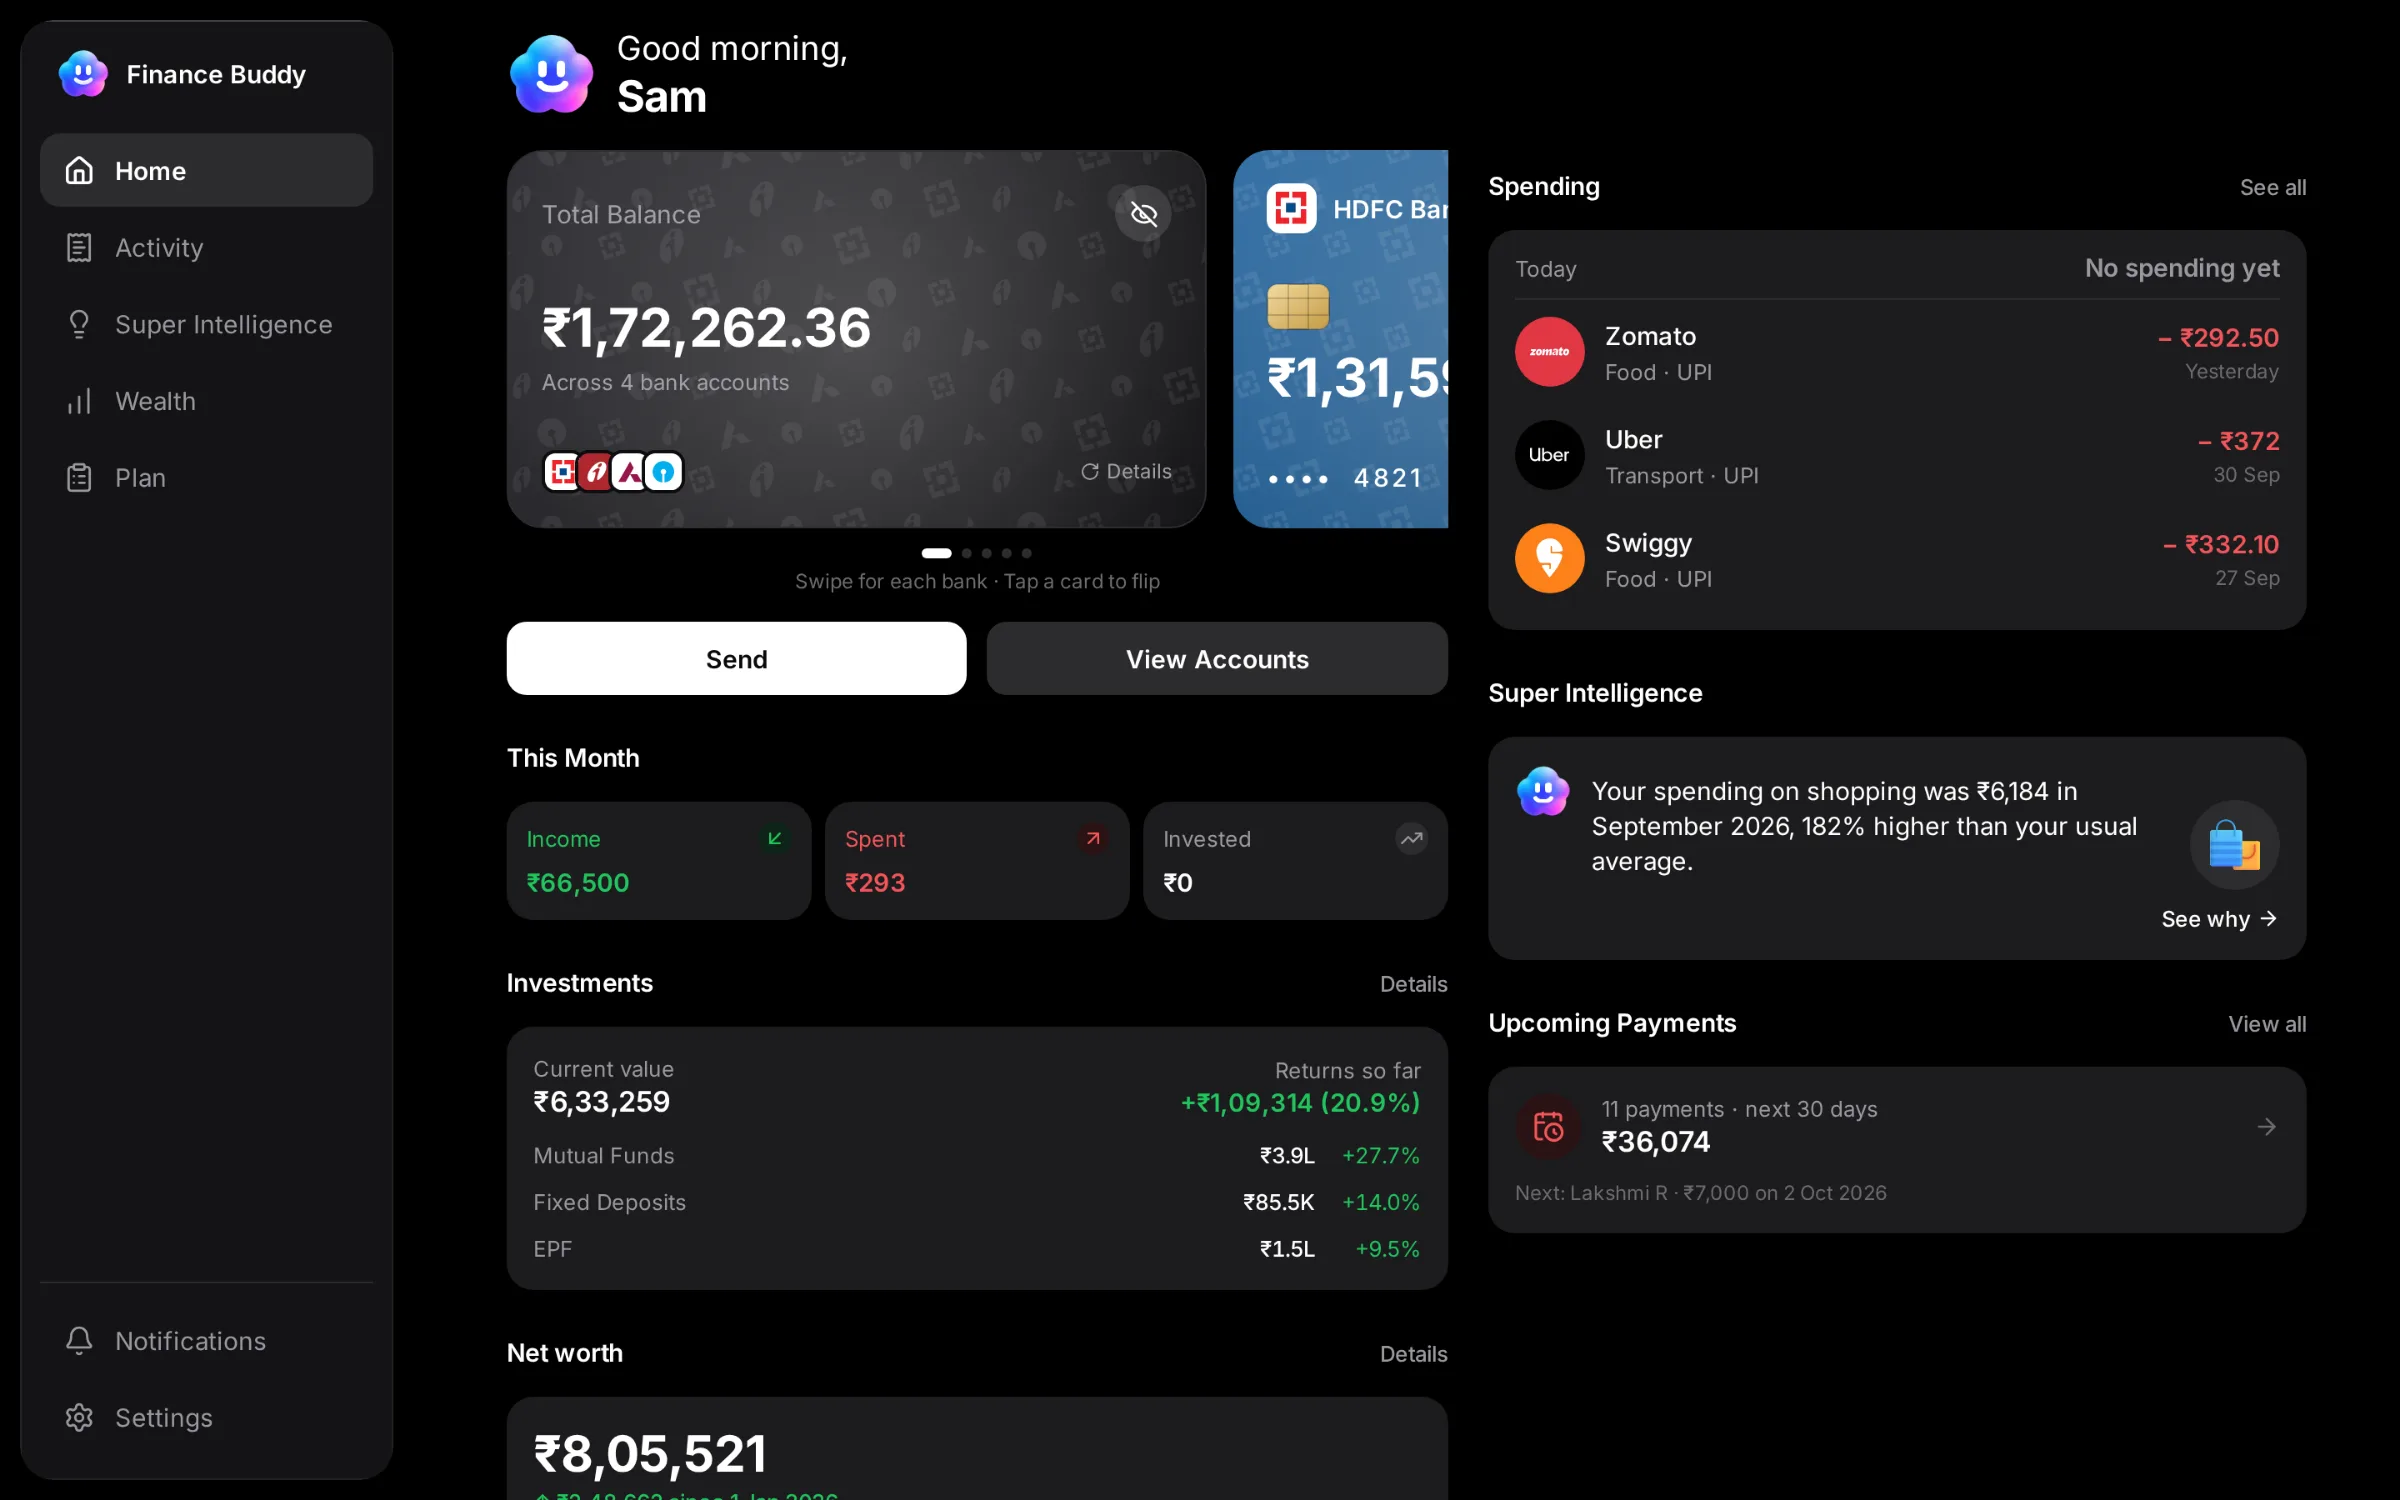
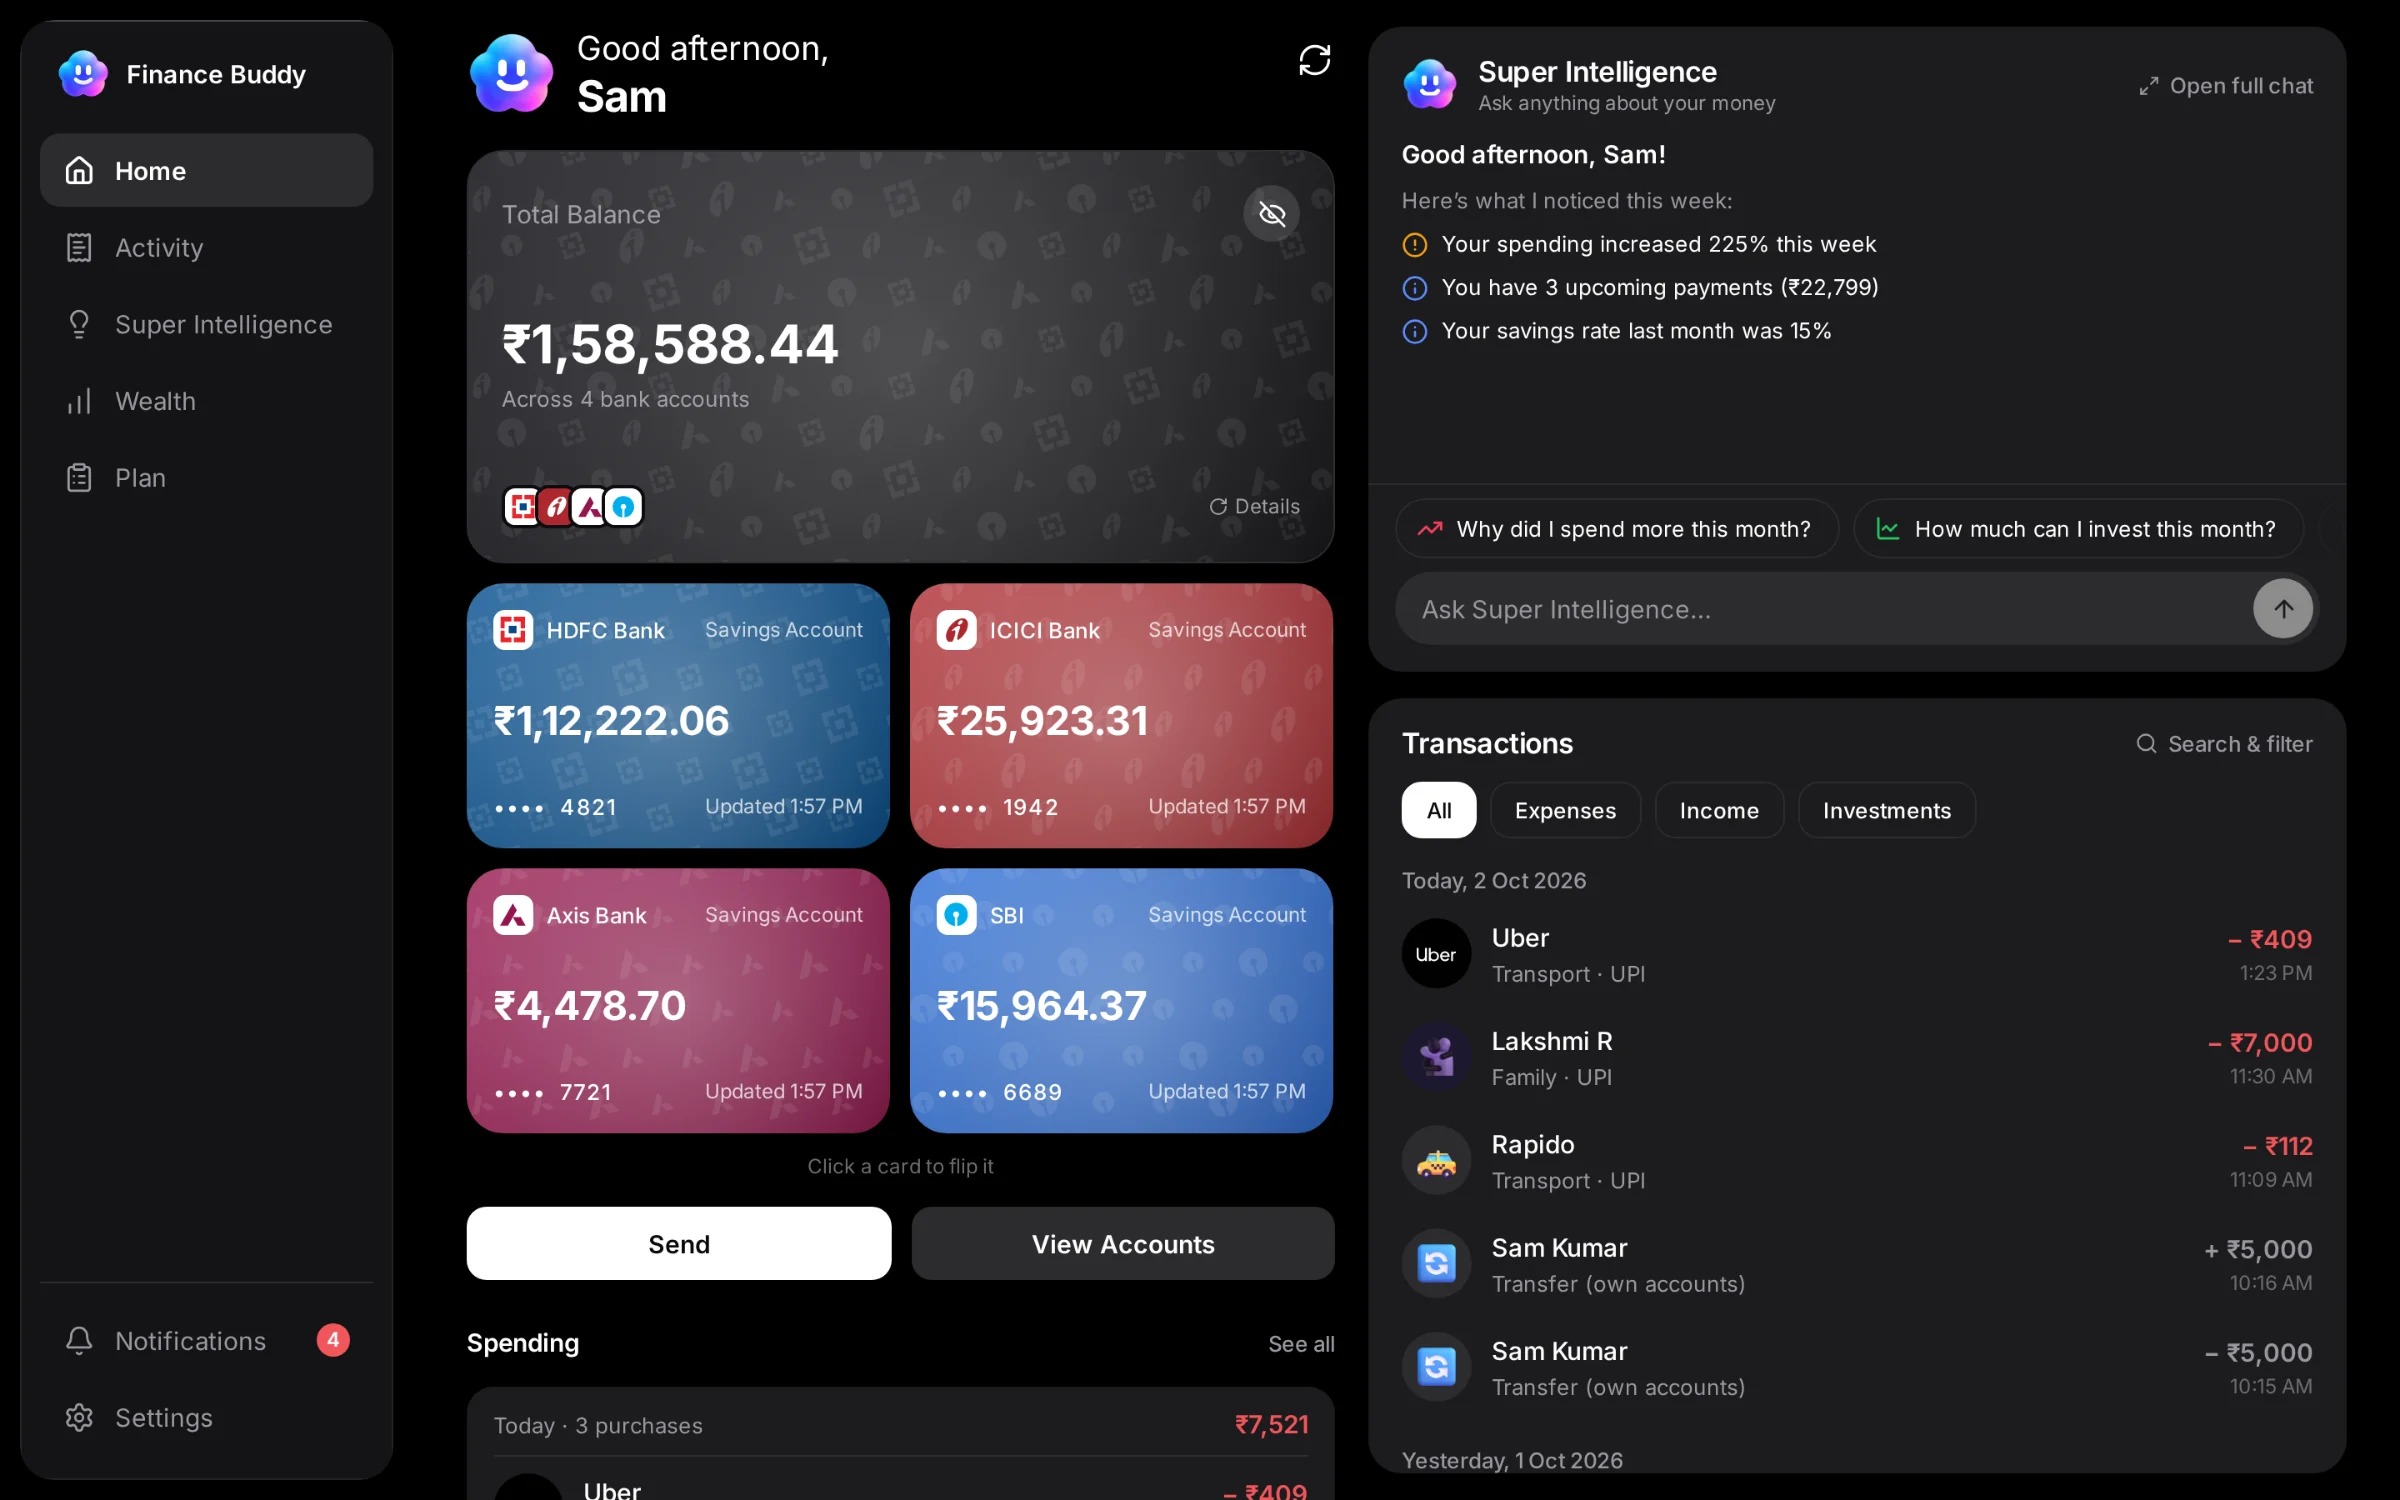
Finance Buddy: two-line headline, full gradient in dark, new desktop Home
The hero reads "Your money. All in one place." then "Explained." on
tablet and desktop. Dark mode uses the same deep gradient as light. The
Big screen section shows the app's new desktop Home.

Claude-Session: https://claude.ai/code/session_01Jfo4YiUXPoq1QTHMtNJNaB

diff --git a/src/fb/sections/Hero.tsx b/src/fb/sections/Hero.tsx
@@ -54,11 +54,13 @@ export default function Hero({ stage = 'done' }: { stage?: 'intro' | 'reveal' | 
           <m.h1
             {...enter(0.08)}
             id="hero-title"
-            className="mt-7 text-[clamp(2.75rem,7.4vw,7rem)] leading-[0.98] font-bold tracking-[-0.045em]"
+            className="mt-7 text-[clamp(2.5rem,5.7vw,6rem)] leading-[1.02] font-bold tracking-[-0.045em]"
           >
-            Your money.
-            <br />
-            All in one place.
+            {/* Two lines from tablet up. A phone is too narrow for the first
+                line, so it breaks cleanly after "Your money." there. */}
+            <span className="sm:whitespace-nowrap">
+              <span className="inline-block">Your money.</span> <span className="inline-block">All in one place.</span>
+            </span>
             <br />
             <span className="fb-ink-gradient">Explained.</span>
           </m.h1>

diff --git a/src/fb/fb.css b/src/fb/fb.css
@@ -210,18 +210,14 @@ p {
   }
 }
 
-/* "Explained." in the mascot's colours: the one gradient on the page, kept
-   dark enough on light and light enough on dark to read as large text. */
+/* "Explained." in the mascot's colours: the one gradient on the page. The
+   same deep blue to violet in both themes. */
 .fb-ink-gradient {
   background: linear-gradient(100deg, #2f6bff 0%, #483afc 45%, #a845e6 100%);
   -webkit-background-clip: text;
   background-clip: text;
   color: transparent;
   padding-bottom: 0.08em;
-}
-
-:root[data-theme='dark'] .fb-ink-gradient {
-  background-image: linear-gradient(100deg, #5b8cff 0%, #8b7cff 45%, #e879f9 100%);
 }
 
 /* =========================================================

diff --git a/src/fb/config.ts b/src/fb/config.ts
@@ -63,7 +63,7 @@ export const SCREENS: Record<ScreenId, string> = {
 export type DesktopId = 'home' | 'si';
 
 export const DESKTOP: Record<DesktopId, { label: string; alt: string }> = {
-  home: { label: 'Home', alt: 'Finance Buddy on desktop: a sidebar, bank cards, spending, Super Intelligence and upcoming payments' },
+  home: { label: 'Home', alt: 'Finance Buddy on desktop: a sidebar, the total balance, every bank card, a Super Intelligence chat and recent transactions' },
   si: { label: 'Super Intelligence', alt: 'Super Intelligence on desktop, answering about subscriptions' },
 };
 
